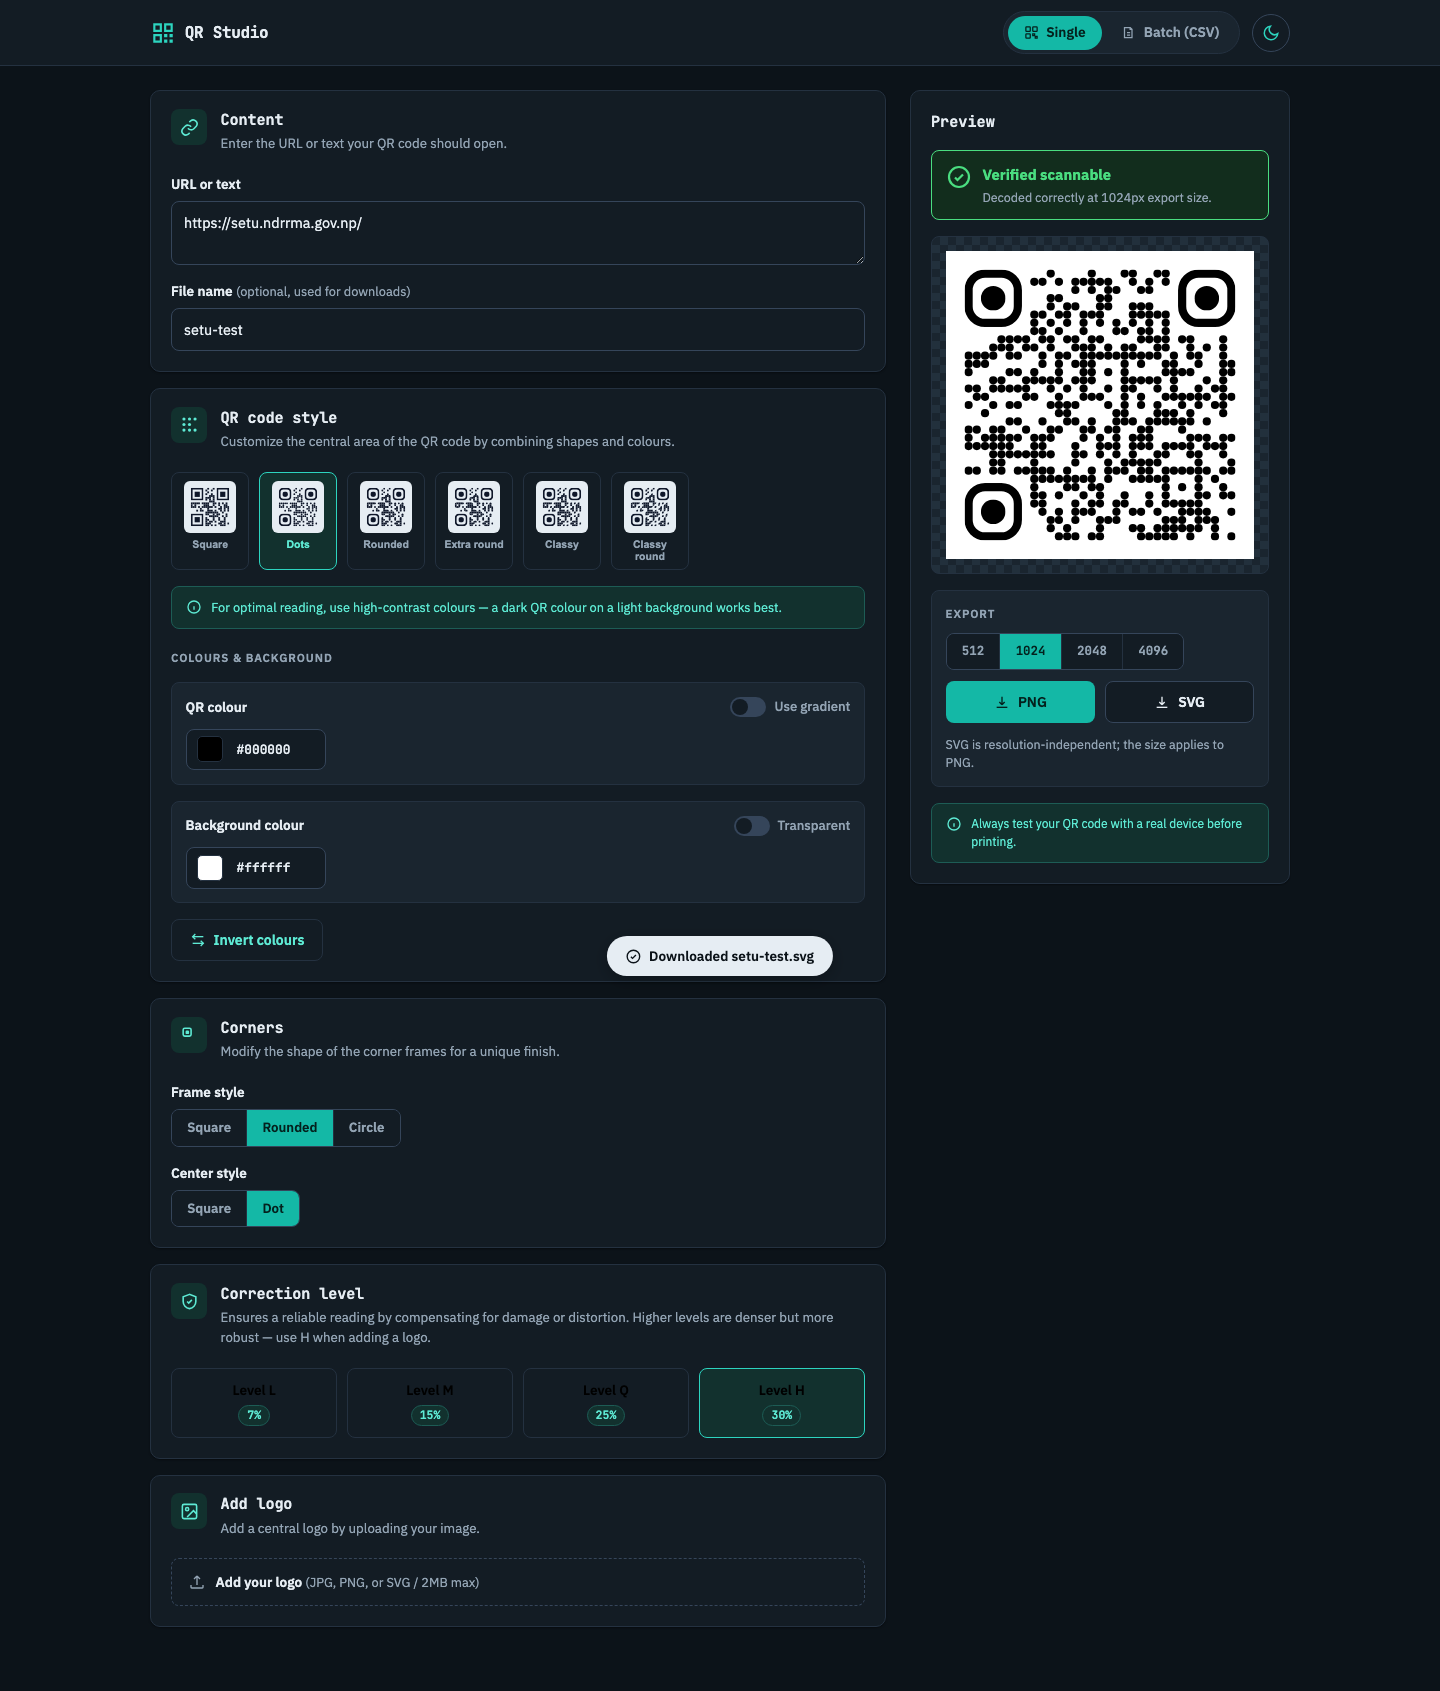
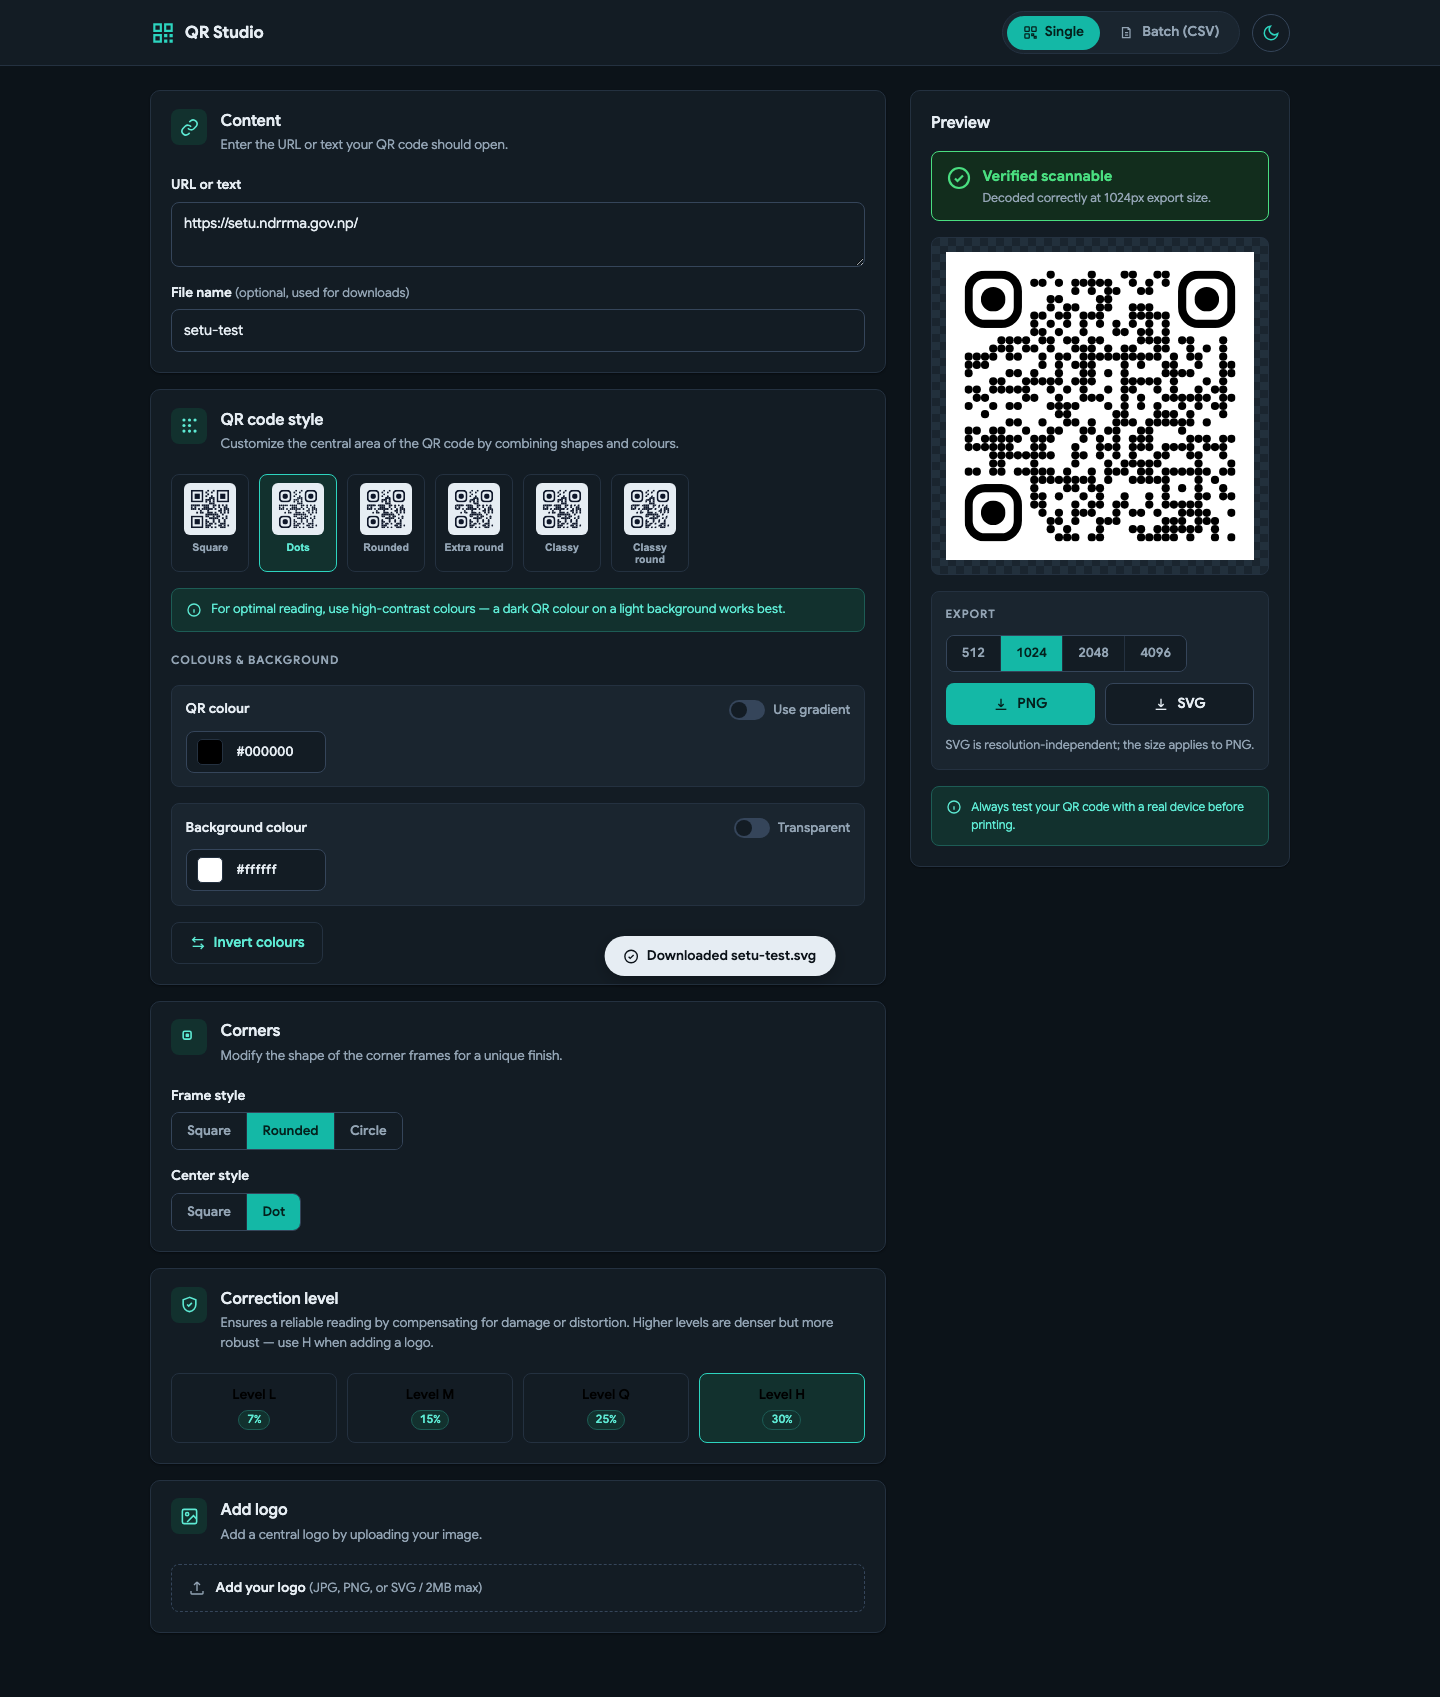
Typography: single-family Google Sans with weight-based hierarchy
Replace IBM Plex Sans + JetBrains Mono with Google Sans for all text.
Hierarchy now comes from weight (400 body / 500 controls / 600 headings
/ 700 brand & verdict), uppercase tracked labels, and tabular figures
for data (hex, resolutions, percentages, table URLs).

diff --git a/css/styles.css b/css/styles.css
@@ -1,6 +1,8 @@
 /* ==========================================================================
    QR Studio — redesigned UI (v2)
-   Vanilla token-based CSS. IBM Plex Sans (UI) + JetBrains Mono (headings/data).
+   Vanilla token-based CSS. Google Sans for all text; hierarchy comes from
+   weight (400 body / 500 controls / 600 headings / 700 brand & verdict),
+   case, and tabular figures for data.
    Light + dark themes: :root = light, media-query dark for "system",
    [data-theme] overrides for the explicit toggle.
    ========================================================================== */
@@ -99,7 +101,7 @@
 html { font-size: 16px; }
 
 body {
-  font-family: "IBM Plex Sans", -apple-system, "Segoe UI", sans-serif;
+  font-family: "Google Sans", -apple-system, "Segoe UI", sans-serif;
   background: var(--bg);
   color: var(--text);
   line-height: 1.5;
@@ -109,8 +111,10 @@ body {
 svg { display: block; }
 .hidden { display: none !important; }
 
+/* data text: same family, aligned figures */
 .mono, code {
-  font-family: "JetBrains Mono", ui-monospace, "SF Mono", Menlo, monospace;
+  font-variant-numeric: tabular-nums;
+  letter-spacing: 0.01em;
 }
 
 /* every interactive element */
@@ -144,10 +148,9 @@ button { cursor: pointer; }
 .brand { display: flex; align-items: center; gap: 0.55rem; }
 .brand-icon { width: 26px; height: 26px; color: var(--brand-ink); }
 .brand-name {
-  font-family: "JetBrains Mono", ui-monospace, monospace;
   font-weight: 700;
-  font-size: 1rem;
-  letter-spacing: -0.02em;
+  font-size: 1.05rem;
+  letter-spacing: -0.01em;
 }
 
 .topbar-actions { display: flex; align-items: center; gap: 0.75rem; }
@@ -249,8 +252,7 @@ button { cursor: pointer; }
 .card-head-icon svg { width: 19px; height: 19px; }
 
 .card-head h2 {
-  font-family: "JetBrains Mono", ui-monospace, monospace;
-  font-size: 0.95rem;
+  font-size: 1rem;
   font-weight: 600;
   letter-spacing: -0.01em;
 }
@@ -444,8 +446,10 @@ input[type="range"] { accent-color: var(--brand); cursor: pointer; }
   border: none;
   padding: 0.25rem;
   width: 84px;
-  font-family: "JetBrains Mono", ui-monospace, monospace;
-  font-size: 0.8rem;
+  font-size: 0.82rem;
+  font-weight: 500;
+  font-variant-numeric: tabular-nums;
+  letter-spacing: 0.02em;
   text-transform: lowercase;
   background: transparent;
 }
@@ -516,7 +520,7 @@ input[type="range"] { accent-color: var(--brand); cursor: pointer; }
 .seg-btn:hover { color: var(--text); }
 .seg-btn.active { background: var(--brand); color: var(--on-brand); }
 
-.seg-mono .seg-btn { font-family: "JetBrains Mono", ui-monospace, monospace; font-size: 0.78rem; }
+.seg-mono .seg-btn { font-size: 0.8rem; font-variant-numeric: tabular-nums; }
 
 /* ---------- ECC grid ---------- */
 .ecc-grid {
@@ -543,7 +547,7 @@ input[type="range"] { accent-color: var(--brand); cursor: pointer; }
 
 .ecc-name { font-weight: 600; font-size: 0.85rem; }
 .ecc-pct {
-  font-family: "JetBrains Mono", ui-monospace, monospace;
+  font-variant-numeric: tabular-nums;
   font-size: 0.72rem;
   font-weight: 600;
   color: var(--brand-text);
@@ -721,9 +725,9 @@ th[aria-sort="descending"] .sort-arrow { transform: rotate(180deg); }
   align-items: center;
   justify-content: center;
   height: 100%;
-  font-family: "JetBrains Mono", ui-monospace, monospace;
-  font-size: 0.72rem;
-  font-weight: 600;
+  font-variant-numeric: tabular-nums;
+  font-size: 0.74rem;
+  font-weight: 500;
   color: var(--text);
 }
 
@@ -731,9 +735,9 @@ th[aria-sort="descending"] .sort-arrow { transform: rotate(180deg); }
 .preview-card { padding: 1.25rem; display: flex; flex-direction: column; gap: 1rem; }
 
 .preview-title {
-  font-family: "JetBrains Mono", ui-monospace, monospace;
-  font-size: 0.95rem;
+  font-size: 1rem;
   font-weight: 600;
+  letter-spacing: -0.01em;
 }
 
 /* --- Scannability badge: the hero --- */

diff --git a/index.html b/index.html
@@ -6,7 +6,7 @@
   <title>QR Studio — QR Code Generator</title>
   <link rel="preconnect" href="https://fonts.googleapis.com" />
   <link rel="preconnect" href="https://fonts.gstatic.com" crossorigin />
-  <link href="https://fonts.googleapis.com/css2?family=IBM+Plex+Sans:wght@400;500;600;700&family=JetBrains+Mono:wght@500;600;700&display=swap" rel="stylesheet" />
+  <link href="https://fonts.googleapis.com/css2?family=Google+Sans:wght@400;500;600;700&display=swap" rel="stylesheet" />
   <link rel="stylesheet" href="css/styles.css" />
   <script>
     // Apply the saved theme before first paint to avoid a flash
